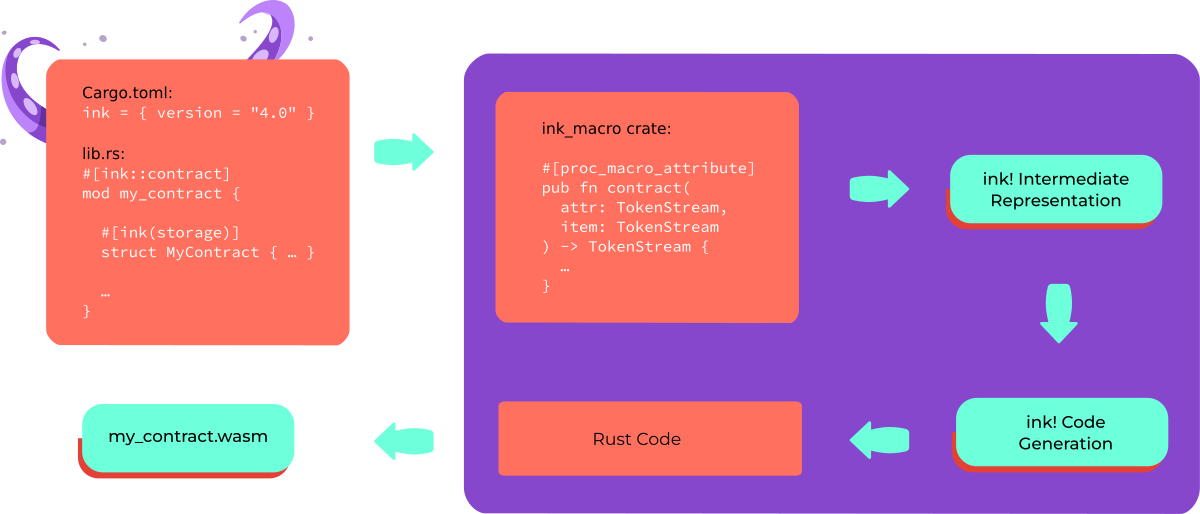
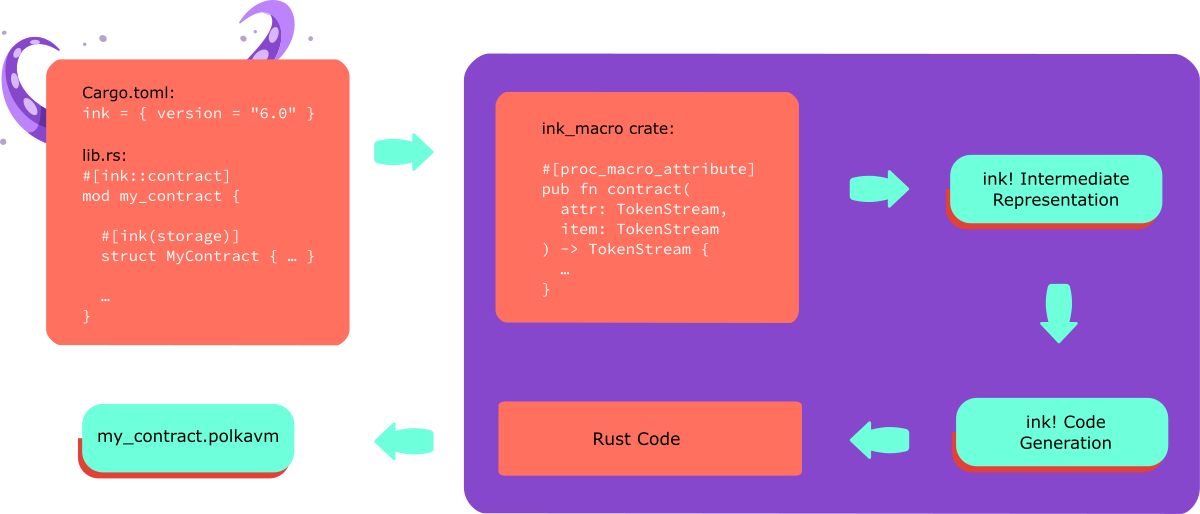
Update architecture docs (#2422)
* Update architecture schema

* Update `Cargo.lock`

* Enable `event-collection`

* Update `Cargo.lock`

* Update architecture

* Update inkternals graphic

* Save more disk space in CI

* Update terminology: Substrate vs Polkadot SDK

diff --git a/ARCHITECTURE.md b/ARCHITECTURE.md
@@ -44,11 +44,11 @@ ink! is composed of a number of crates that are all found in the
   An off-chain testing engine, it simulates a blockchain environment and allows
   mocking specified conditions.
 * [`e2e`](https://github.com/use-ink/ink/tree/master/crates/e2e):
-  An end-to-end testing framework for ink! contracts. It requires a Substrate node
+  An end-to-end testing framework for ink! contracts. It requires a Polkadot SDK node
   which includes `pallet-revive` running in the background. The crate provides a
   macro that can be used
   to write an idiomatic Rust test that will in the background create transactions,
-  submit them to the Substrate chain and return the state changes, gas costs, etc.
+  submit them to the Polkadot SDK chain and return the state changes, gas costs, etc.
 
 An important thing to note is that the crates are primarily run in
 a `no_std` environment.
@@ -133,22 +133,18 @@ gas costs) and a lower transaction throughput. Freeing memory is
 irrelevant for our use-case anyway, as the entire memory instance
 is set up fresh for each individual contract call.
 
-_todo reviewed until here, below not yet_
-
 ## Unstable Rust features in ink!
 
 We would like to get away from unstable features of Rust in ink!, so
 that users can just use stable Rust for building their contracts.
-At the moment we're still stuck with one nightly feature though:
-[alloc_error_handler](https://github.com/rust-lang/rust/issues/51540).
-It's needed because we use a specialized memory allocation handler,
-the `ink_allocator` crate.
+At the moment we're stuck with nightly for the `ink_linting` crate though.
+The two nightly features used there are `rustc_private` and `box_patterns`.
 It's unclear when or if this feature will ever make it to stable.
 
 We had a lot of issues when requiring users to use Rust nightly. Mostly
 because there were regularly bugs in the nightly Rust compiler that
 often took days to be fixed.
-As a consequence we decided on having `cargo-contract` `v2.0.0` run
+As a consequence we decided on having `cargo-contract` run
 `cargo +stable build` with `RUSTC_BOOTSTRAP=1`. This is kind of a hack,
 the env variable enables unstable features in the stable Rust toolchain.
 But it enabled us to switch tutorials/guides to Rust stable.
@@ -159,11 +155,11 @@ compiler. It's easier for us to support. If you build a contract without
 
 ## Interaction with `pallet-revive`
 
-The Wasm blob to which an ink! contract is compiled is executed in
+The PolkaVM blob to which an ink! contract is compiled is executed in
 an execution environment named [`pallet-revive`](https://github.com/paritytech/polkadot-sdk/tree/master/substrate/frame/revive)
 on-chain.
 This `pallet-revive` is the smart contracts module of
-[the Substrate blockchain framework](http://substrate.io/).
+[the Polkadot SDK blockchain framework](https://polkadot.com/platform/sdk).
 
 The relationship is as depicted in this diagram:
 
@@ -187,64 +183,35 @@ If you look at the implementations you'll see a common pattern of
   for contract developers.
 
 ### The pallet API
-Signatures of host API functions are defined in
+The function signatures of host API functions are defined in
 [`pallet-revive-uapi`](https://github.com/paritytech/polkadot-sdk/blob/master/substrate/frame/revive/uapi/src/host/riscv64.rs).
-You'll see that we import different versions of API functions, something
-like the following excerpt:
-
-```rust
-#[link(wasm_import_module = "seal0")]
-extern "C" {
-    pub fn get_storage(
-        key_ptr: Ptr32<[u8]>,
-        output_ptr: Ptr32Mut<[u8]>,
-        output_len_ptr: Ptr32Mut<u32>,
-    ) -> ReturnCode;
-}
-
-#[link(wasm_import_module = "seal1")]
-extern "C" {
-    pub fn set_storage(
-        key_ptr: Ptr32<[u8]>,
-        value_ptr: Ptr32<[u8]>,
-        value_len: u32,
-    ) -> ReturnCode;
-}
-```
-
 Smart contracts are immutable, thus the `pallet-revive` can never change or remove
 old API functions ‒ otherwise smart contracts that are deployed on-chain would break.
 
-Hence there is this version mechanism. Functions start out at version `seal0` and for
-each new released iteration of the function there is a new version of it introduced.
-In the example above you can see that we changed the function `set_storage` at
-one point.
-
-The prefix `seal` here is for historical reasons. There is some analogy to sealing a
-contract. And we found seals to be a cute animal as well ‒ like squids!
+So if there will be new versions of functions, they'll be introduced as new functions.
+Typically with a version identified as postfix. So for each new released iteration of
+a function there is a new version of it introduced.
 
 ## `Environment` Trait
 
-You can use ink! on any blockchain that was built with the [Substrate](https://substrate.io)
+You can use ink! on any blockchain that was built with the [Polkadot SDK](https://polkadot.com/platform/sdk)
 framework and includes the [`pallet-revive`](https://github.com/paritytech/polkadot-sdk/tree/master/substrate/frame/revive)
 module.
-Substrate does not define specific types for a blockchain, it uses
-generic types throughout.
-Chains built on Substrate can decide on their own which types they want
-to use for e.g. the chain's block number or account id's. For example,
-chains that intend to be compatible to Ethereum typically use the same
-type as Ethereum for their `AccountId`.
+Polkadot SDK and `pallet-revive` only specifies some types as fixed,
+but many are generic.
+Chains built with Polkadot SDK can decide on their own which types they want
+to use for e.g. the chain's block number or account id's.
 
 The `Environment` trait is how ink! knows the concretes types of the chain
 to which the contract will be deployed to.
 Specifically, our `ink_env` crate defines a trait [`Environment`](https://use-ink.github.io/ink/ink_env/trait.Environment.html)
-which specifies the types.
-By default, ink! uses the default Substrate types, the `ink_env` crate
+which specifies the types that are relevant for ink! to know.
+By default, ink! uses the default Polkadot SDK types, the `ink_env` crate
 exports an implementation of the `Environment` trait for that:
 [`DefaultEnvironment`](https://use-ink.github.io/ink/ink_env/enum.DefaultEnvironment.html).
 
 If you are developing for a chain that uses different types than the
-Substrate default types you can configure a different environment in
+Polkadot SDK default types you can configure a different environment in
 the contract macro ([documentation here](https://use-ink.github.io/ink/ink/attr.contract.html#header-arguments)):
 
 ```rust
@@ -252,5 +219,5 @@ the contract macro ([documentation here](https://use-ink.github.io/ink/ink/attr.
 ```
 
 __Important:__ If a developer writes a contract for a chain that deviates
-from the default Substrate types, they have to make sure to use that
+from the default Polkadot SDK types, they have to make sure to use that
 chain's `Environment`.
